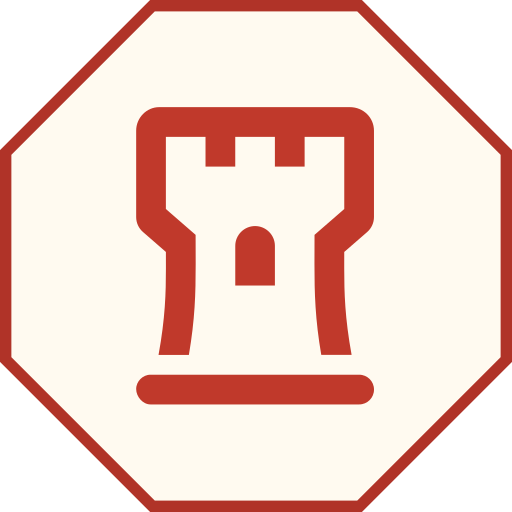
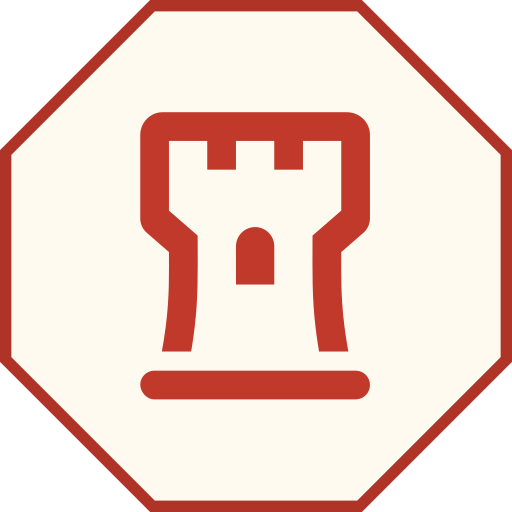
Janggi piece style

diff --git a/scripts/test-janggi-piece-assets.py b/scripts/test-janggi-piece-assets.py
@@ -75,7 +75,7 @@ class WesternizedPieceAssetsTest(unittest.TestCase):
                     left, top, right, bottom = mask.getbbox()
                     self.assertLess(abs((left + right) / 2 - 256), 3)
                     self.assertLess(abs((top + bottom) / 2 - 256), 3)
-                    expected_extent = 298 if name == "chariot" else 339
+                    expected_extent = 288 if name == "chariot" else 339
                     self.assertAlmostEqual(max(right - left, bottom - top), expected_extent, delta=5)
                     self.assertGreater(right - left + bottom - top, 490)
                     for y in range(512):
